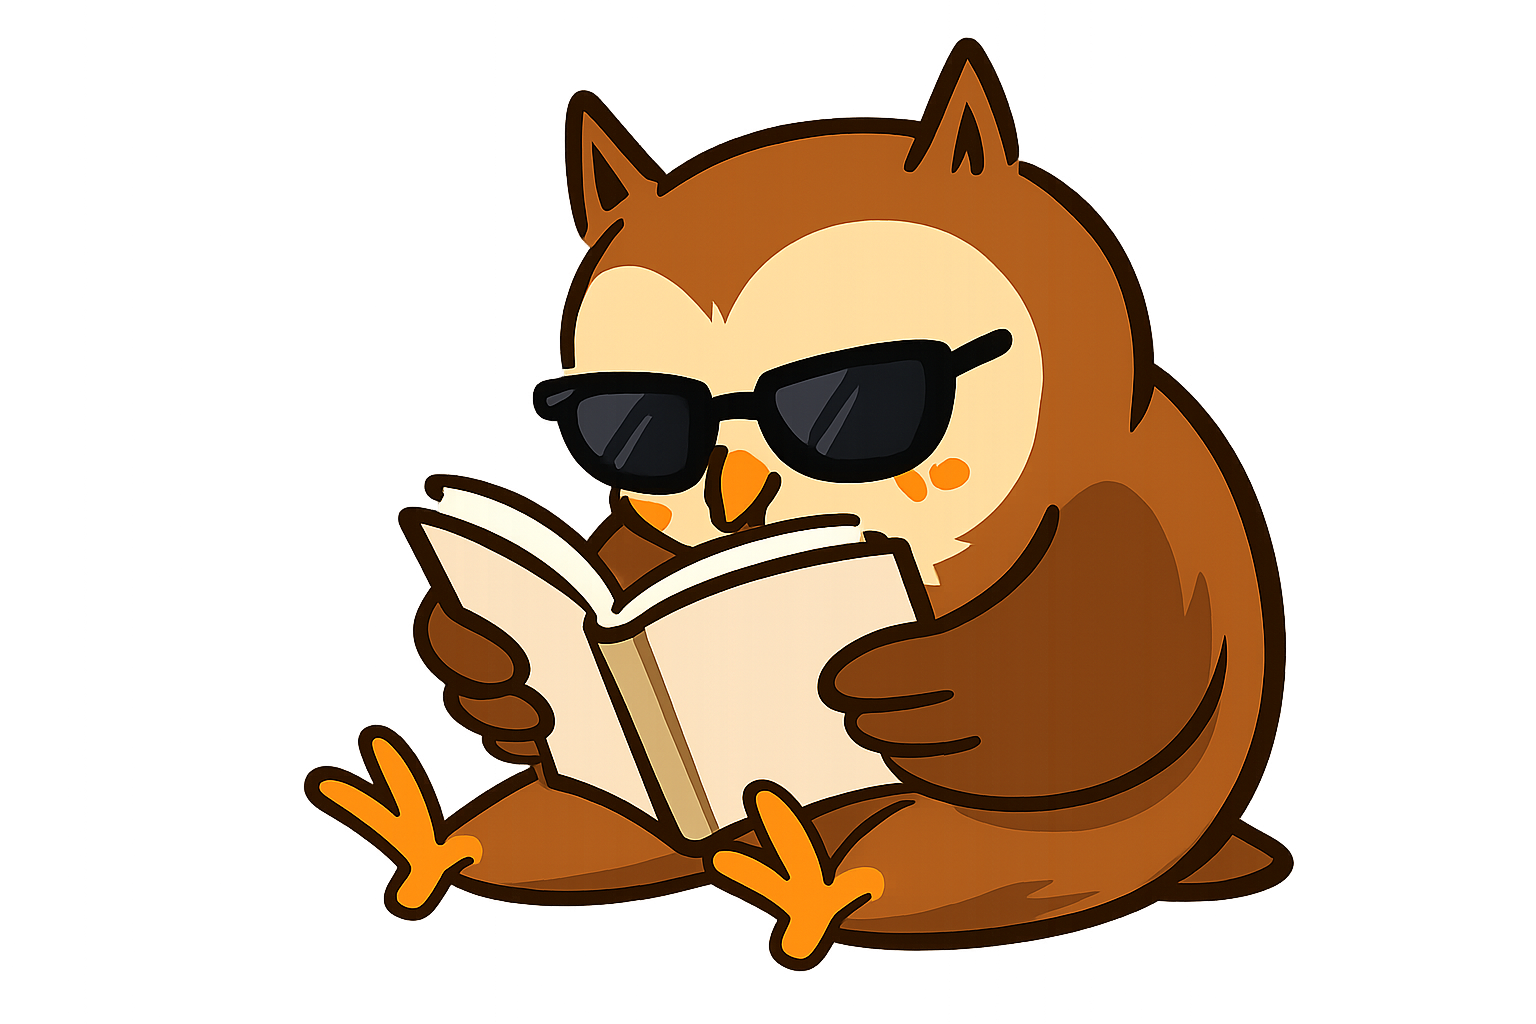
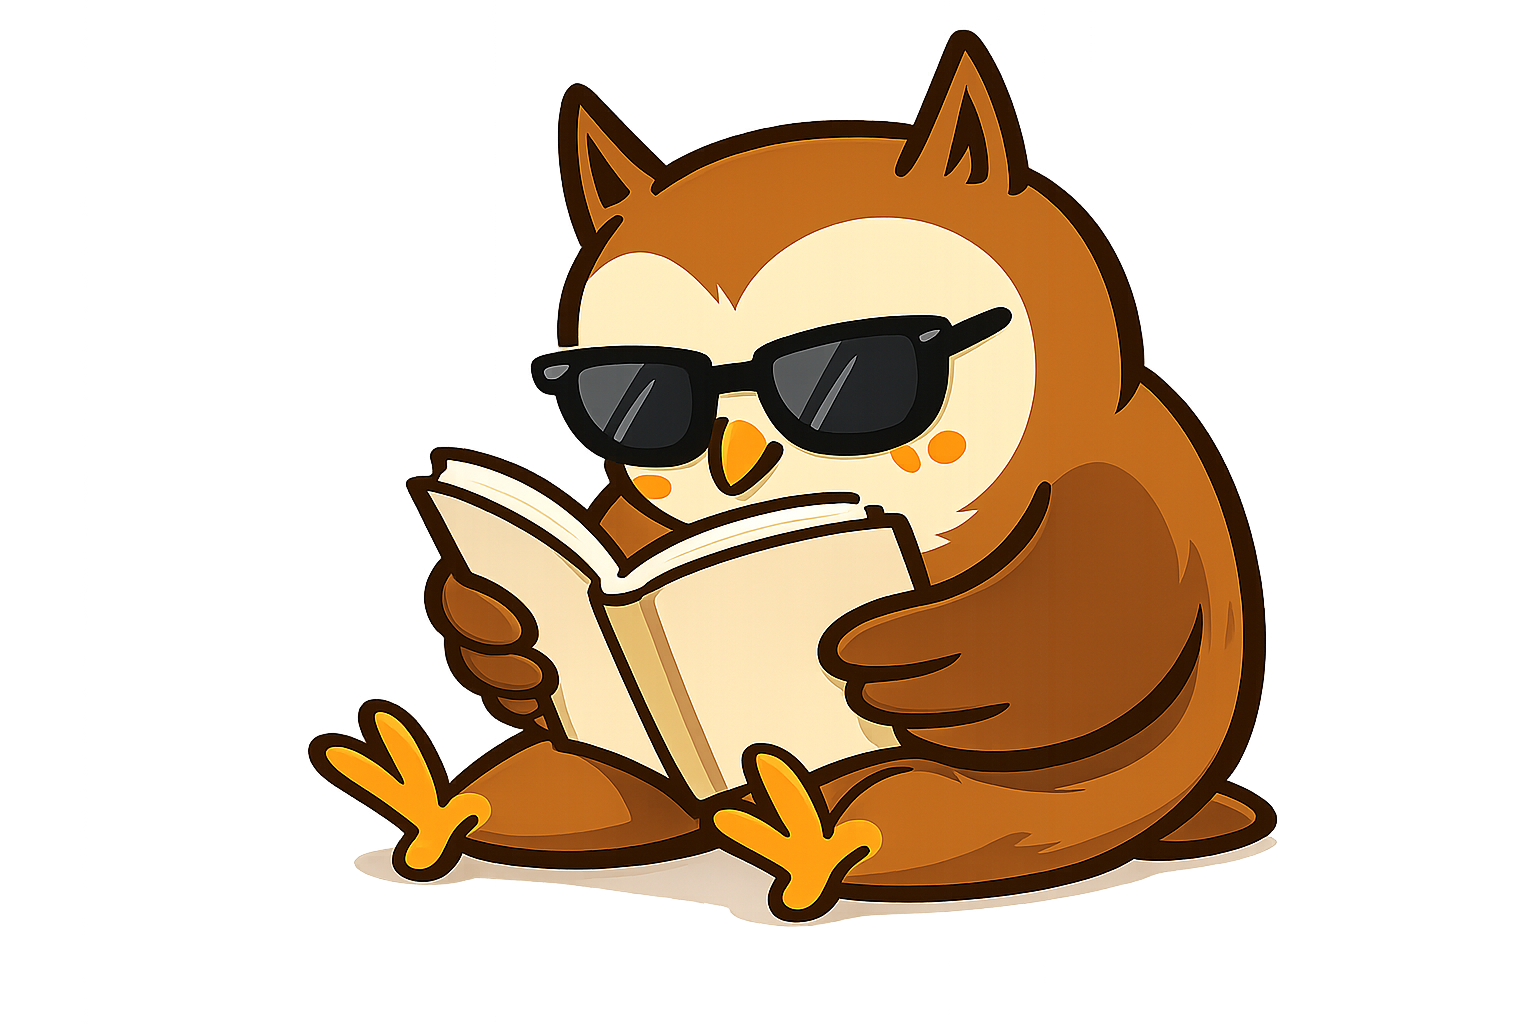
[feature] Update lazy loading for the pages

Changed region(s): [[0.1875, 0.0312, 0.8438, 0.9688]]

diff --git a/frontend/src/shared/ui/LoadingDialog.tsx b/frontend/src/shared/ui/LoadingDialog.tsx
@@ -1,0 +1,50 @@
+import { motion } from "motion/react";
+import { GradientBackground } from "./GradientBackground";
+import owlRunning from "@/shared/assets/owl_running_with_glasses.png";
+
+interface LoadingDialogProps {
+  message?: string;
+}
+
+/**
+ * Full-viewport "please wait" loader. Paints its own GradientBackground (so it
+ * looks right even when no page is rendered behind it) with a dialog card and a
+ * running owl on top. Used for the post-login boot gate and as the Suspense
+ * fallback while a lazily-loaded page chunk downloads.
+ */
+export function LoadingDialog({ message = "Just a moment…" }: LoadingDialogProps) {
+  return (
+    <div className="fixed inset-0 z-50">
+      <GradientBackground>
+        <div className="flex h-screen items-center justify-center px-6">
+          <motion.div
+            initial={{ opacity: 0, scale: 0.9, y: 8 }}
+            animate={{ opacity: 1, scale: 1, y: 0 }}
+            transition={{ duration: 0.25, ease: "easeOut" }}
+            className="flex flex-col items-center gap-6 rounded-3xl border border-[var(--owl-brown)]/15 bg-[var(--owl-parchment)]/70 px-16 py-14 shadow-lg backdrop-blur-md"
+          >
+            {/* Running owl — bobs and tilts to look like it's dashing in place */}
+            <motion.img
+              src={owlRunning}
+              alt=""
+              className="h-36 w-36 object-contain drop-shadow-md"
+              animate={{ y: [0, -7, 0], rotate: [-4, 4, -4] }}
+              transition={{ duration: 0.5, ease: "easeInOut", repeat: Infinity }}
+            />
+
+            {/* Indeterminate track — a sliver that runs forward, implying motion */}
+            <div className="h-1 w-40 overflow-hidden rounded-full bg-[var(--owl-brown)]/15">
+              <motion.div
+                className="h-full w-1/3 rounded-full bg-[var(--owl-brown)]"
+                animate={{ x: ["-120%", "320%"] }}
+                transition={{ duration: 1, ease: "easeInOut", repeat: Infinity }}
+              />
+            </div>
+
+            <span className="text-base font-medium text-[var(--owl-brown-deep)]">{message}</span>
+          </motion.div>
+        </div>
+      </GradientBackground>
+    </div>
+  );
+}

diff --git a/frontend/src/app/router/index.tsx b/frontend/src/app/router/index.tsx
@@ -1,7 +1,9 @@
+import { Suspense } from "react";
 import { createBrowserRouter } from "react-router";
 import { AppLayout } from "../layouts";
-import { ChatPage } from "@/modules/chat";
 import { ProtectedRoute, LoginPage } from "@/modules/auth";
+import { LoadingDialog } from "@/shared/ui";
+import { ChatPage } from "./lazyPages";
 
 export const router = createBrowserRouter([
   { path: "/login", element: <LoginPage /> },
@@ -11,7 +13,14 @@ export const router = createBrowserRouter([
       {
         element: <AppLayout />,
         children: [
-          { path: "/", element: <ChatPage /> },
+          {
+            path: "/",
+            element: (
+              <Suspense fallback={<LoadingDialog />}>
+                <ChatPage />
+              </Suspense>
+            ),
+          },
         ],
       },
     ],

diff --git a/frontend/src/modules/auth/shared/AuthProvider.tsx b/frontend/src/modules/auth/shared/AuthProvider.tsx
@@ -14,6 +14,7 @@ export function AuthProvider({ children }: AuthProviderProps) {
   const [session, setSession] = useState<Session | null>(null);
   const [user, setUser] = useState<AuthUser | null>(null);
   const [status, setStatus] = useState<AuthStatus>("loading");
+  const [profileSynced, setProfileSynced] = useState(false);
   const syncedRef = useRef<string | null>(null);
 
   useEffect(() => {
@@ -35,6 +36,7 @@ export function AuthProvider({ children }: AuthProviderProps) {
 
       if (!newSession) {
         setUser(null);
+        setProfileSynced(false);
         syncedRef.current = null;
         return;
       }
@@ -43,15 +45,19 @@ export function AuthProvider({ children }: AuthProviderProps) {
         syncedRef.current = newSession.user.id;
         syncProfile(newSession.access_token)
           .then((profile) => { if (profile) setUser(profile); })
-          .catch(() => {});
+          .catch(() => {})
+          .finally(() => setProfileSynced(true));
       }
     });
 
     return () => listener.subscription.unsubscribe();
   }, []);
 
+  const booting =
+    status === "loading" || (status === "authenticated" && !profileSynced);
+
   return (
-    <AuthContext.Provider value={{ session, user, status }}>
+    <AuthContext.Provider value={{ session, user, status, booting }}>
       {children}
     </AuthContext.Provider>
   );

diff --git a/frontend/src/app/router/lazyPages.ts b/frontend/src/app/router/lazyPages.ts
@@ -1,0 +1,7 @@
+import { lazy } from "react";
+
+// Code-split route components. Kept in their own file so the router config
+// (which exports a non-component `router`) stays Fast Refresh-compliant.
+export const ChatPage = lazy(() =>
+  import("@/modules/chat").then((m) => ({ default: m.ChatPage }))
+);

diff --git a/frontend/src/modules/auth/ProtectedRoute.tsx b/frontend/src/modules/auth/ProtectedRoute.tsx
@@ -1,10 +1,11 @@
 import { Navigate, Outlet } from "react-router";
+import { LoadingDialog } from "@/shared/ui";
 import { useSession } from "./shared/useSession";
 
 export function ProtectedRoute() {
-  const { status } = useSession();
+  const { status, booting } = useSession();
 
-  if (status === "loading") return null;
+  if (booting) return <LoadingDialog />;
   if (status === "anonymous") return <Navigate to="/login" replace />;
   return <Outlet />;
 }

diff --git a/frontend/src/modules/auth/shared/authContext.ts b/frontend/src/modules/auth/shared/authContext.ts
@@ -8,6 +8,9 @@ export interface AuthContextValue {
   session: Session | null;
   user: AuthUser | null;
   status: AuthStatus;
+  /** True while the app is preparing the first authenticated view
+   *  (session resolving, or profile sync still in flight after login). */
+  booting: boolean;
 }
 
 export const AuthContext = createContext<AuthContextValue | null>(null);

diff --git a/frontend/src/shared/ui/index.ts b/frontend/src/shared/ui/index.ts
@@ -1,4 +1,5 @@
 export { GradientBackground } from "./GradientBackground";
+export { LoadingDialog } from "./LoadingDialog";
 export { Dropdown, DropdownSection, DropdownItem } from "./Dropdown";
 export { Tooltip } from "./Tooltip";
 export { MarkdownRenderer } from "./MarkdownRenderer";